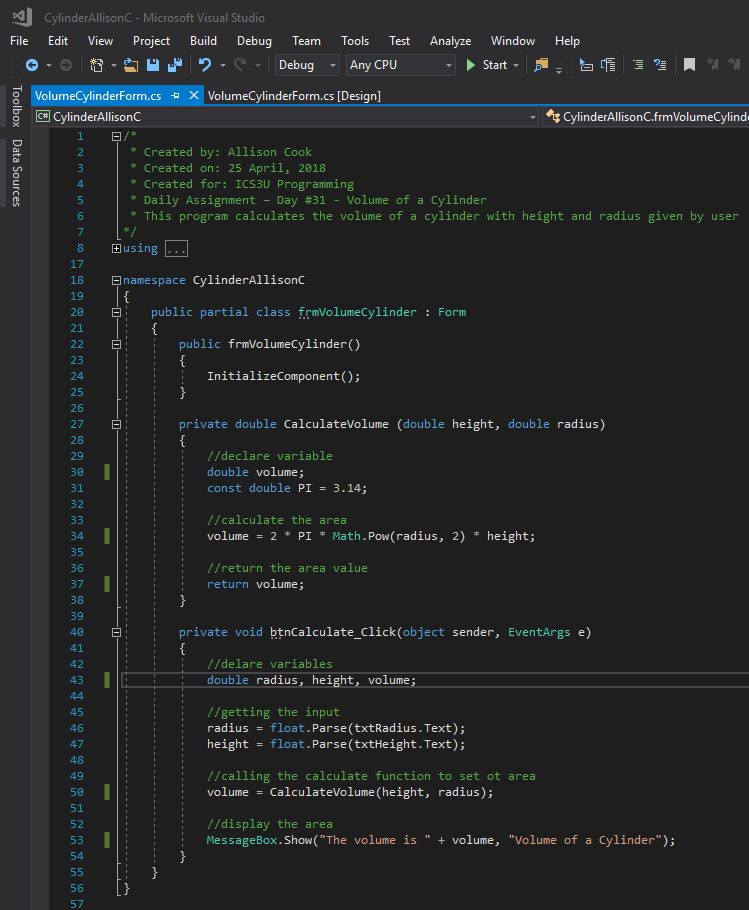
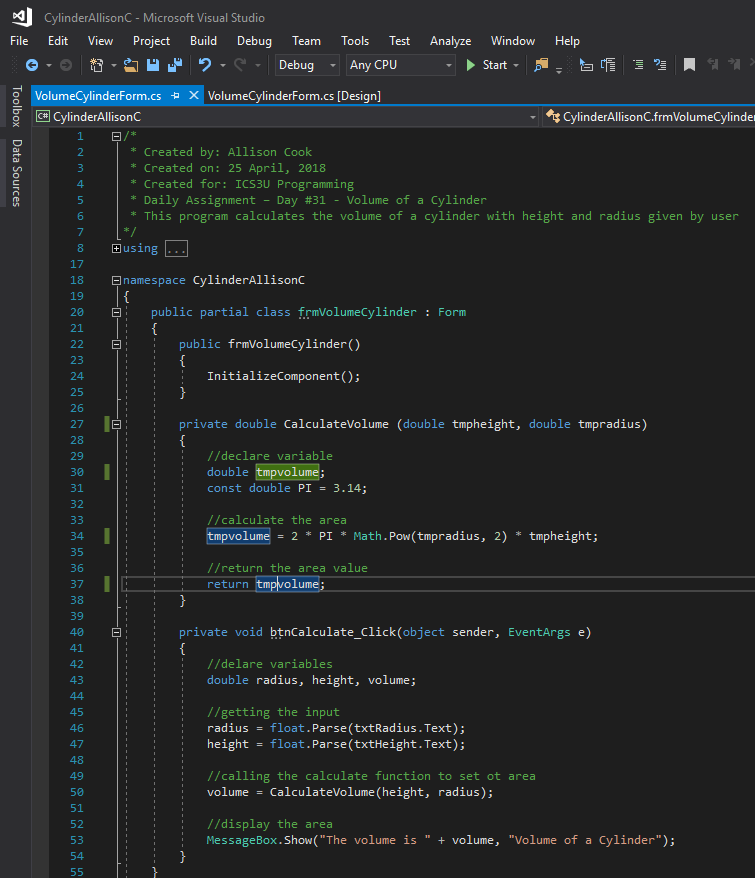
done

diff --git a/CylinderAllisonC/VolumeCylinderForm.cs b/CylinderAllisonC/VolumeCylinderForm.cs
@@ -24,17 +24,17 @@ namespace CylinderAllisonC
             InitializeComponent();
         }
 
-        private double CalculateVolume (double height, double radius)
+        private double CalculateVolume (double tmpheight, double tmpradius)
         {
             //declare variable
-            double volume;
+            double tmpvolume;
             const double PI = 3.14;
 
             //calculate the area
-            volume = 2 * PI * Math.Pow(radius, 2) * height;
+            tmpvolume = 2 * PI * Math.Pow(tmpradius, 2) * tmpheight;
 
             //return the area value
-            return volume;
+            return tmpvolume;
         }
 
         private void btnCalculate_Click(object sender, EventArgs e)
